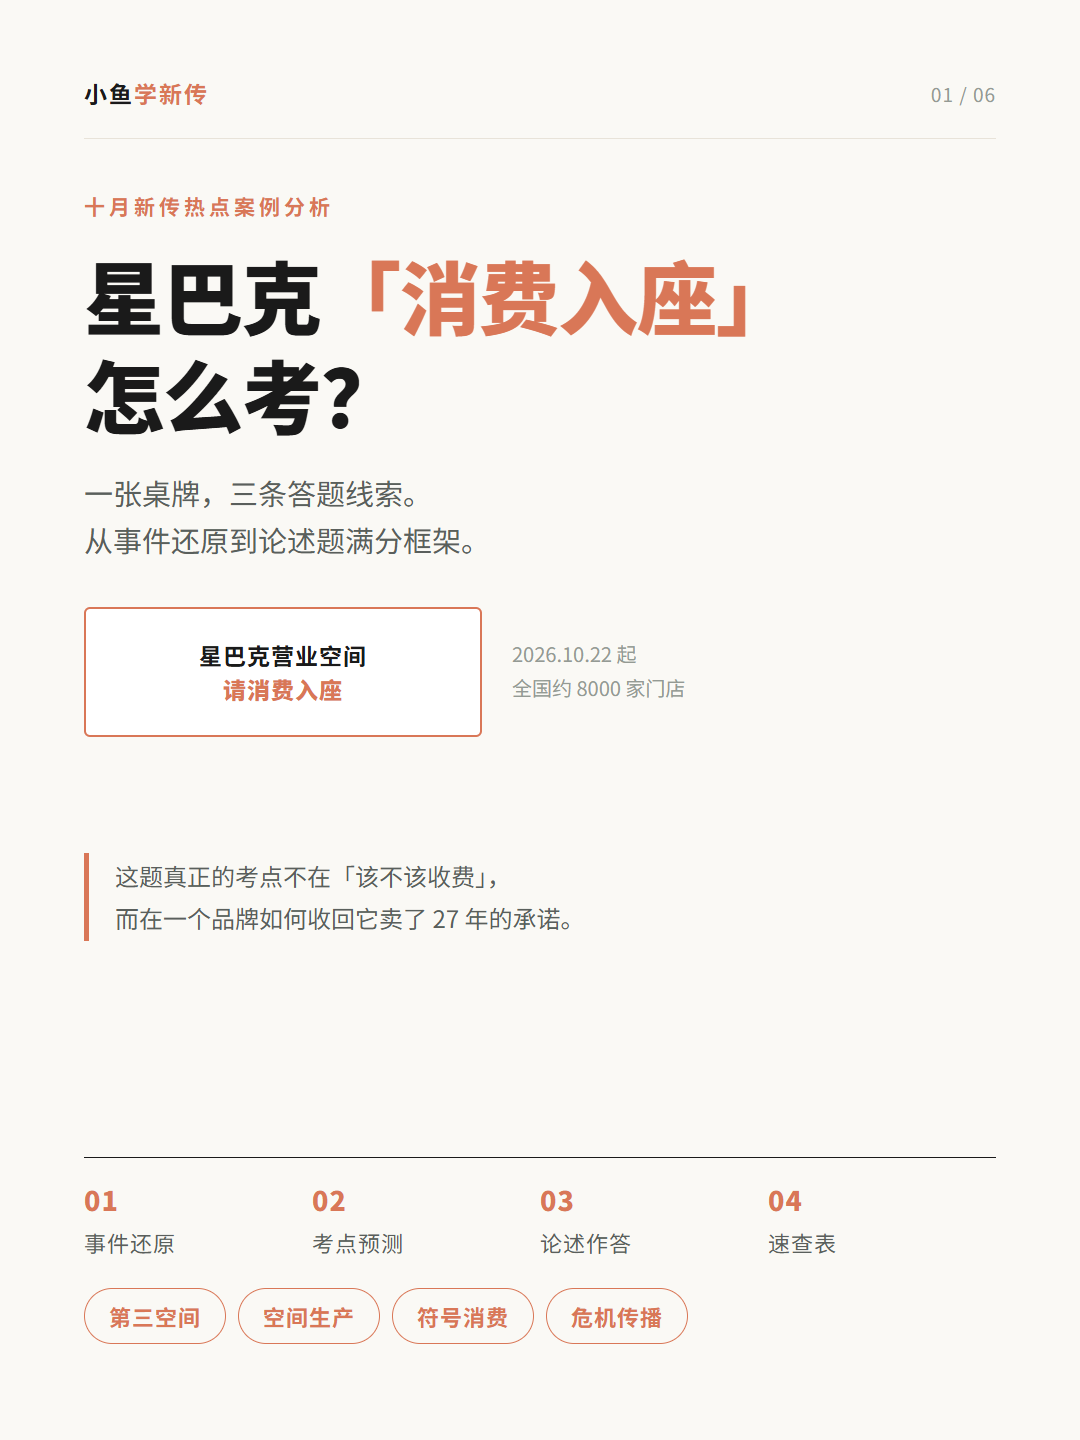
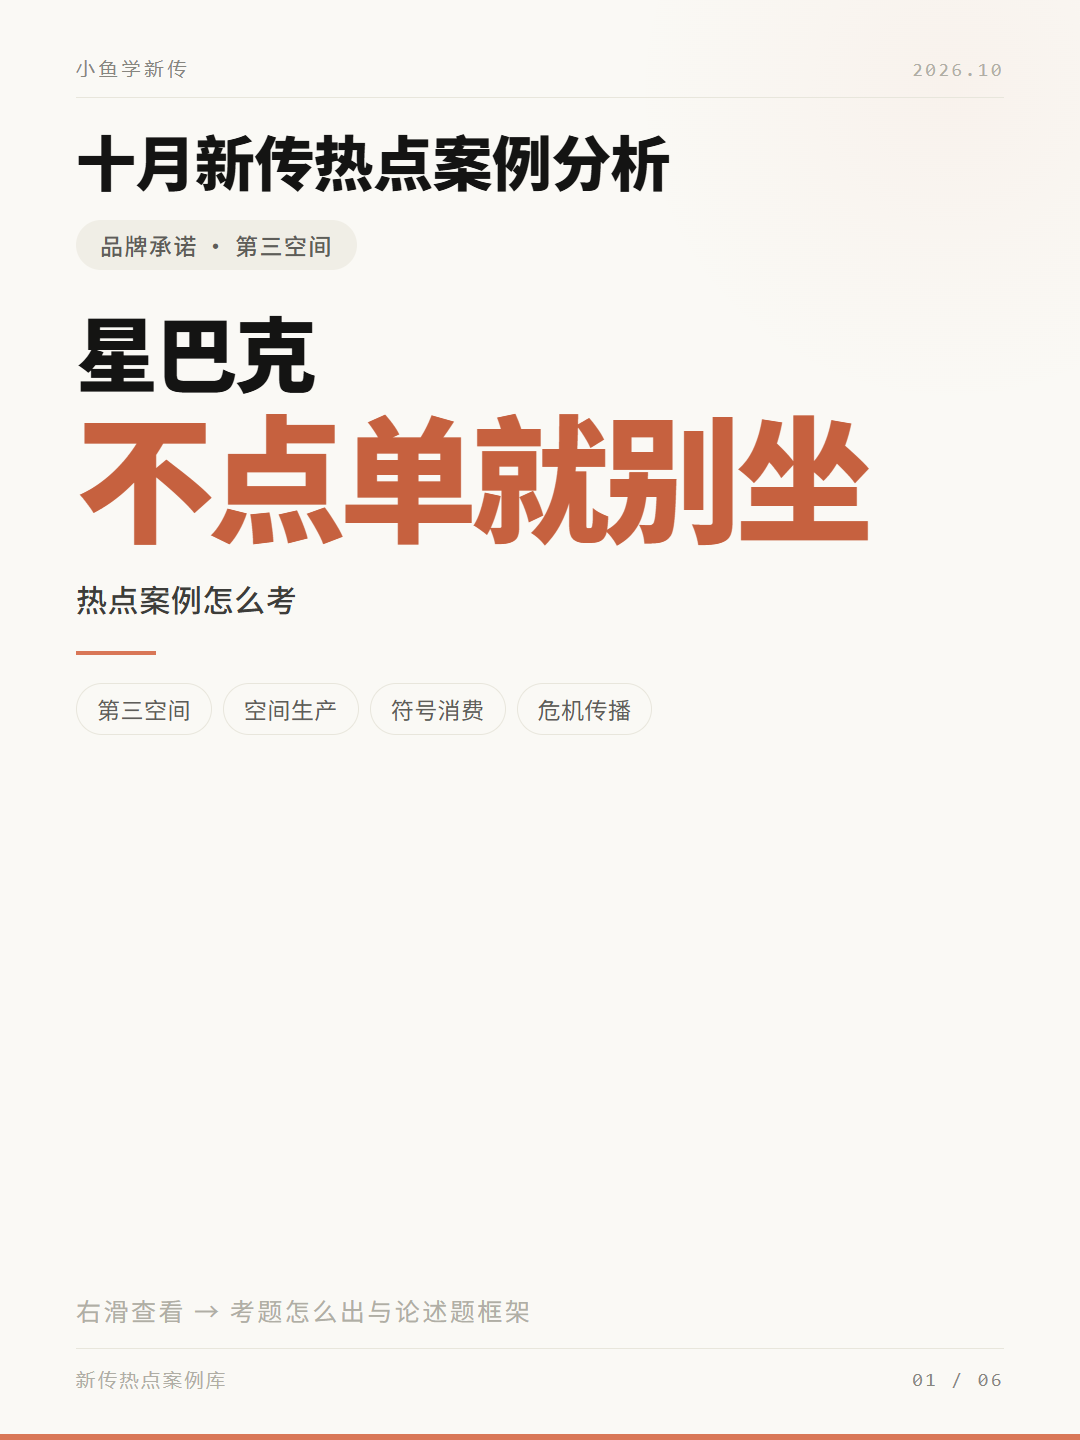
fix(图卡): 第 35 期封面改为第 34 期版式，超大黑体标题
- 封面由衬线大标题 + 桌牌示意图 + 目录条，改为 34 期的
  「栏目标题 → 胶囊 → 两行超大标题 → 副题 → 赭橙短横 → 理论 chips」
- 标题：星巴克（82px 黑）／不点单就别坐（138px 赭橙），副题「热点案例怎么考」
- 引入本地 NotoSansSC-VF.ttf，font-weight:900 取真实字重，避免浏览器合成加粗
- 仅改 p1，p2—p6 未动；六页溢出复检全部安全
- 笔记内更新标题分工说明；待核项第 9 条改写，并记录 README「栏目字号大于事件标题」
  与该条与 34 期实际成品不符

diff --git a/kb/新传热点事件解读/35-星巴克消费入座.md b/kb/新传热点事件解读/35-星巴克消费入座.md
@@ -108,7 +108,9 @@ cards: 6
 
 星巴克「消费入座」怎么考？
 
-> 说明：本篇属「热点怎么答」系列，标题固定为「（具体事件）怎么考？」句式，与编号 34 起适用的「标题党」规范（说人话、带数字、做落差）**并存但不冲突**——系列句式承担识别功能。如需走热点案例主线的标题党写法，见下列备选。
+> 封面与标题的分工：**封面走第 34 期版式**——栏目「十月新传热点案例分析」（黑体 900，60px）→ 胶囊「品牌承诺 · 第三空间」→ 两行超大标题「星巴克」（82px，黑）/「不点单就别坐」（138px，赭橙 #c6613f）→ 副题「热点案例怎么考」→ 赭橙短横 → 四个理论 chips。**小红书标题**沿用「（具体事件）怎么考？」的系列句式，与小标题一致。
+>
+> 编号 34 起适用的「标题党」规范（说人话、带数字、做落差）适用于热点案例主线；本系列以句式承担识别功能，两者并存。如需走主线写法，见下列备选。
 
 **备选**
 
@@ -194,5 +196,5 @@ cards: 6
 6. **「3 亿元投入」用途**：官方表述为「2027 新财年新增投入超 3 亿元，聚焦门店服务体验焕新」，含增加高峰时段及臻选吧台服务人力、升级数智化系统与核心设备、推进约 1000 家门店设施焕新。属规划表述，未见执行细则。
 7. **倡议三条的完整表述**：不同媒体转述略有差异。北方网版本为「留一份空间/留一份安静/留一份自在」三条；澎湃版本为「合理使用座位与公共区域/留意交谈等音量/避免气味浓烈外带食品」。图卡未逐字引用倡议原文，仅用「官方口径」四字概括三项要点。
 8. **理论归属的一个说明**：当日 `热点候选/2026-10-22.md` 给出的理论方向为「第三空间（奥登伯格）/ 公地悲剧（哈丁）/ 框架竞争（恩特曼）」。本篇改选「第三空间 + 空间生产 + 符号消费 + 危机传播」，原因是答题导向下需要一条能贯穿「空间—消费—传播」三层的论证链，公地悲剧与框架竞争可作替补视角，供读者按题型自行替换。
-9. **图卡版式与既有规范的差异**：既有规范（README）要求封面栏目大标题「十月新传热点案例分析」字号大于事件标题。本篇封面以事件标题为主、栏目名为上方小字，属系列识别优先的处理，与编号 12—34 的封面层级不同。如需统一，回炉重渲 p1 即可，其余 5 页不受影响。
+9. **封面版式已按第 34 期对齐**：初版封面为衬线大标题 + 桌牌示意图 + 目录条，与既有版式不一致；现已改为 34 期的「黑体 900 两行超大标题 + 胶囊 + 副题 + 短横 + chips」结构，中文标题使用本地 `NotoSansSC-VF.ttf`（`font-weight:900` 为真实字重，非浏览器合成加粗）。**README 中「封面栏目大标题字号大于事件标题」一条与第 34 期实际封面不符**（34 期栏目 62px、事件标题 90—104px），本次以实际成品为准，建议后续修订该条规范。
 10. **页脚页码**：各页右下角有「01/06」至「06/06」页码，为**页码**而非期号，符合「期号不出现在画面任何位置」的规范。
